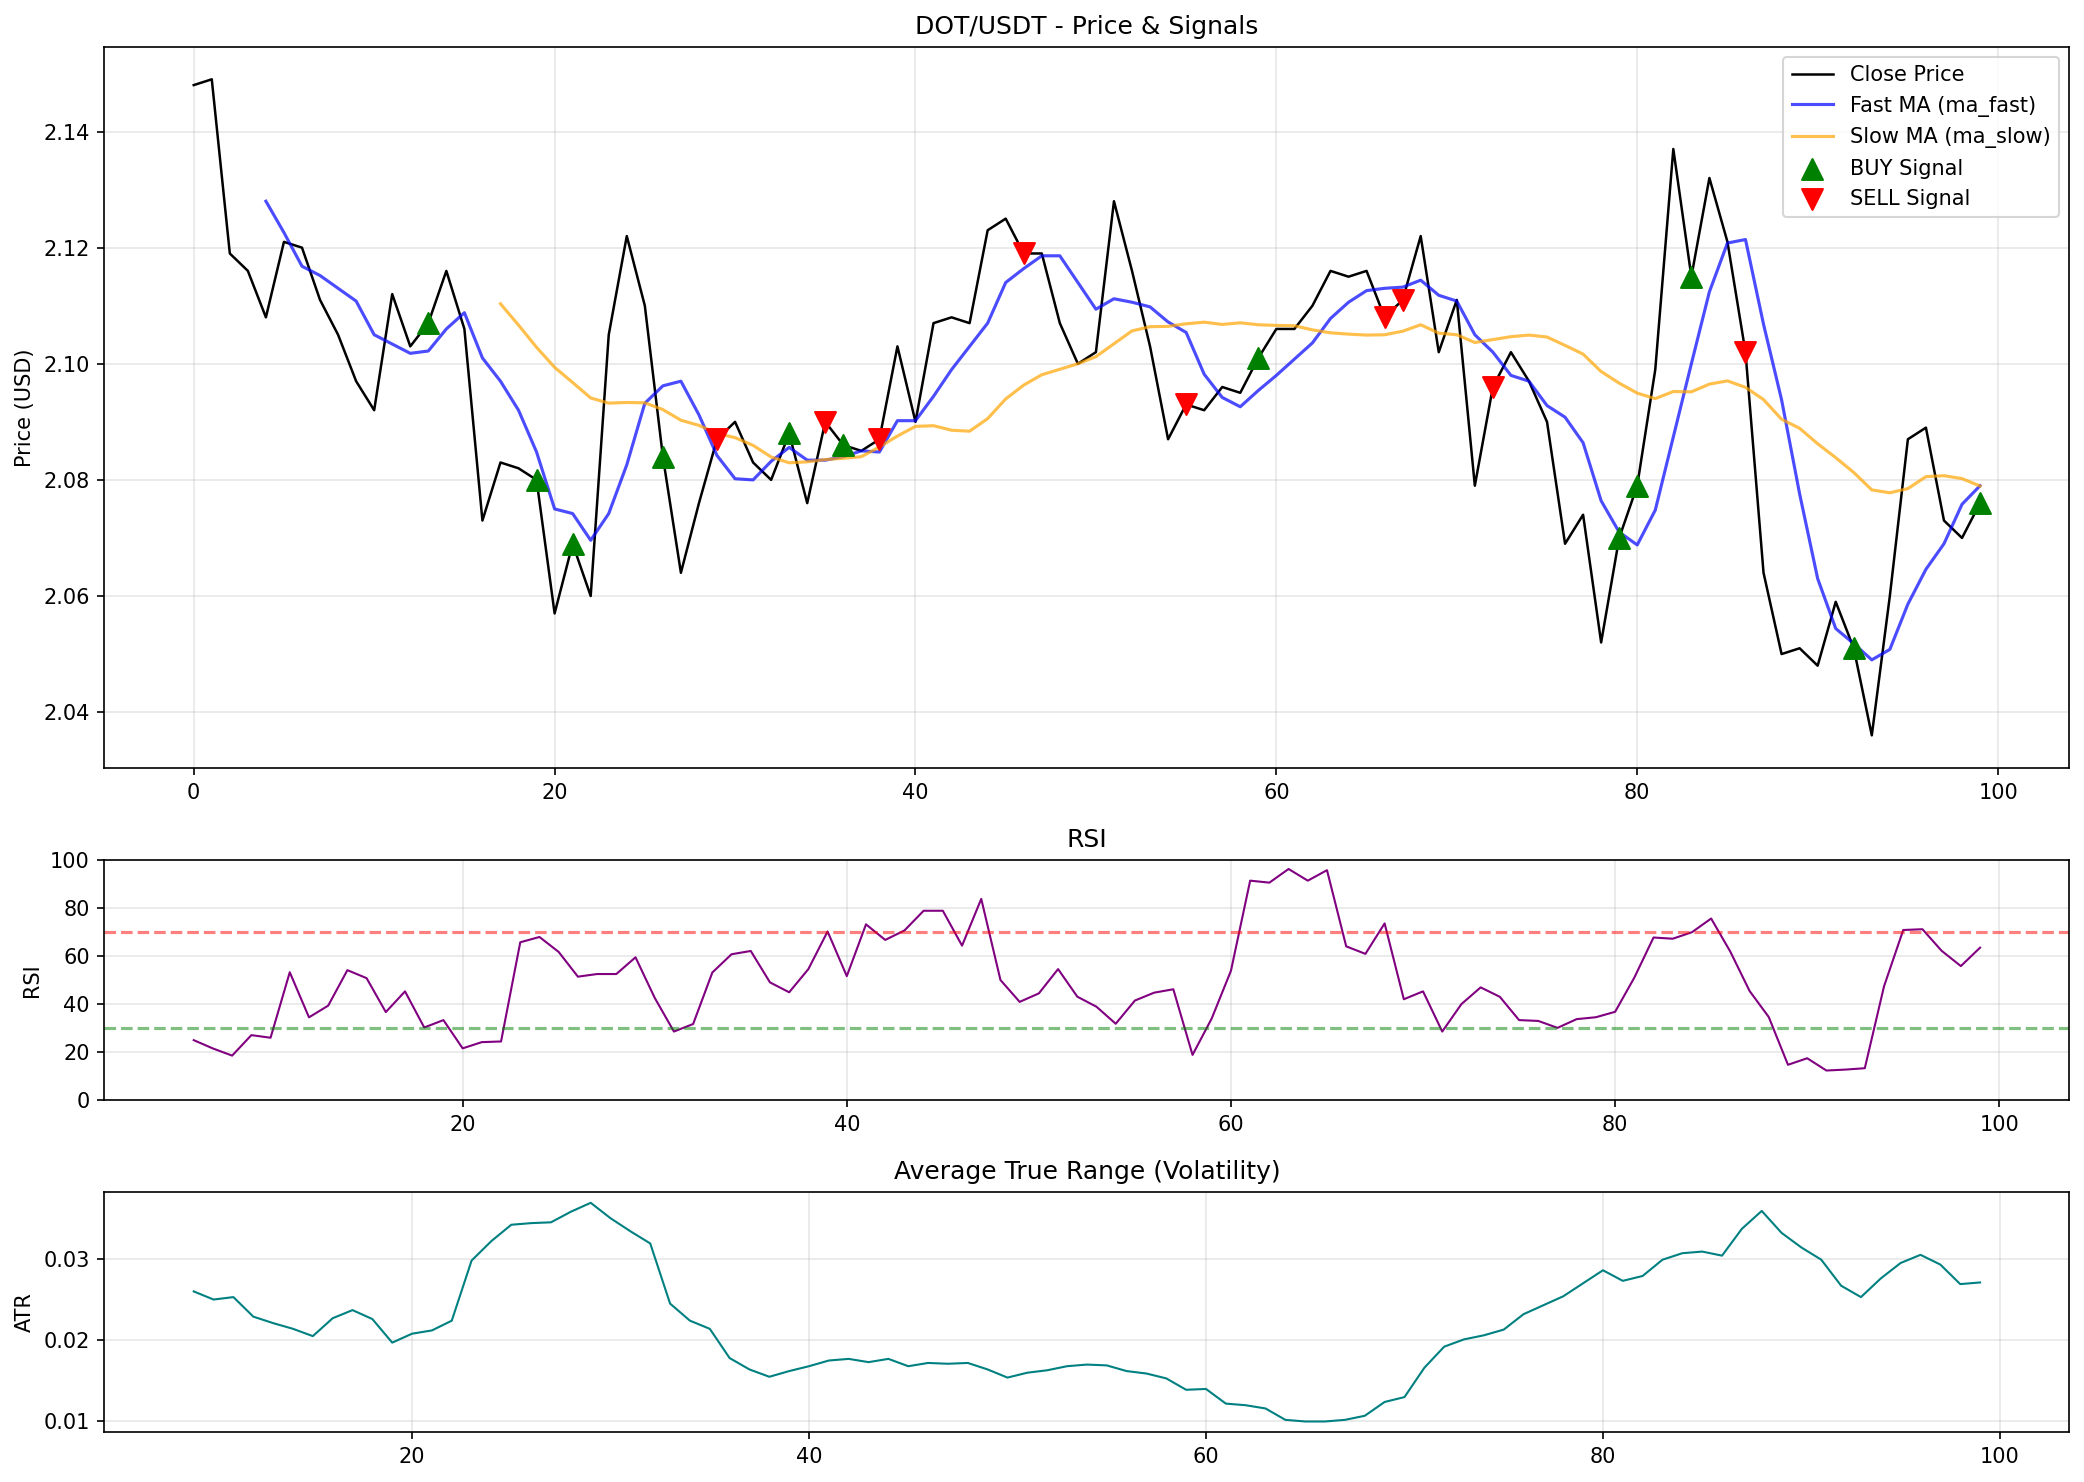
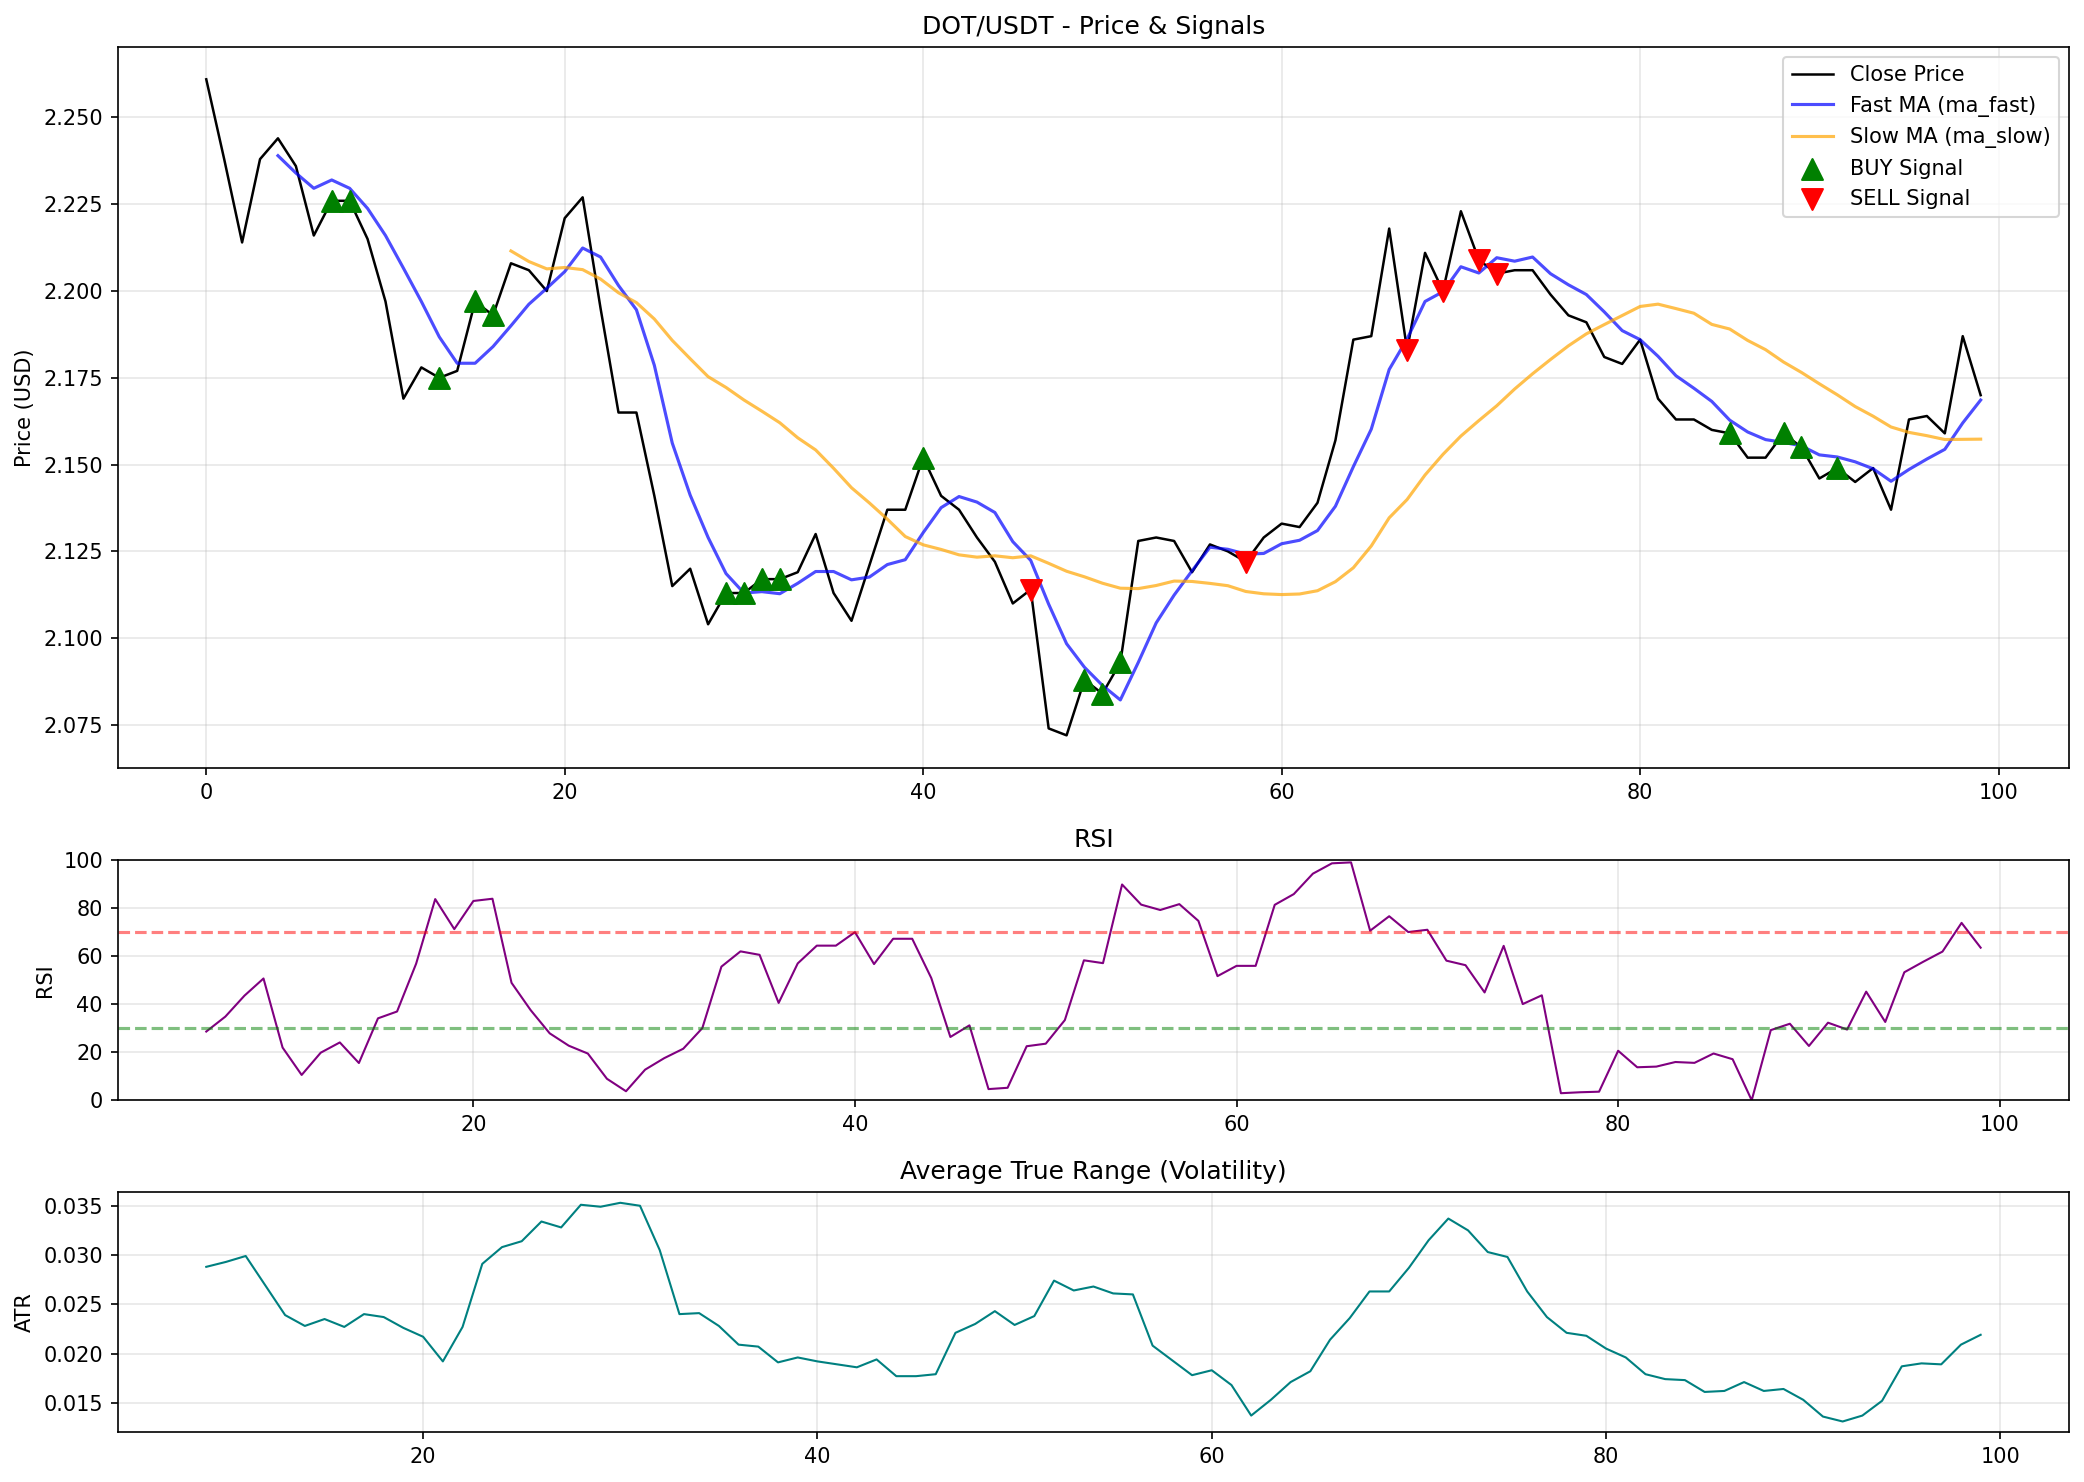
backtest added to main

diff --git a/main_enhanced.py b/main_enhanced.py
@@ -19,6 +19,8 @@ from alerts.email_alerts import send_email
 from alerts.discord_alerts import send_discord_message
 from data.last_signal_store import load_last_signals, save_last_signals
 from execution.enhanced_paper_trader import execute_paper_trade, summarize_paper_trades
+from run_backtest_simple import load_risk_config, BacktestPro
+
 
 # New: load active preset from Supabase (optional)
 try:
@@ -205,8 +207,61 @@ def check_all_positions_for_exits():
     except Exception as e:
         logging.error(f"Error in check_all_positions_for_exits: {e}")
 
+def run_startup_backtest_check():
+    """
+    Runs your professional BacktestPro class as a startup health check.
+    Uses the same risk config as the live bot.
+    """
+    print("\n" + "═" * 80)
+    print(" STARTUP BACKTEST HEALTH CHECK ".center(80))
+    print("═" * 80 + "\n")
+
+    try:
+        # Load the same risk config the live bot will use
+        risk_config = load_risk_config()
+
+        # Choose one or two major symbols for quick validation
+        symbol = "BTC/USDT"  # you can also do ["BTC/USDT", "ETH/USDT"]
+        timeframe = "1h"     # ← change to match your live strategy timeframe
+        limit = 3000         # enough for ~4-5 months on 1h
+
+        print(f"Fetching historical data for backtest ({symbol}, {timeframe})...")
+        df = fetch_ohlcv(symbol=symbol, timeframe=timeframe, limit=limit)
+
+        if df is None or df.empty:
+            print("→ Failed to fetch backtest data. Skipping health check.")
+            return None
+
+        print(f"Applying strategy to {len(df)} candles...")
+        df = enhanced_strategy(df)
+
+        print("Running backtest simulation...")
+        backtester = BacktestPro(initial_balance=10000, risk_config=risk_config)
+        backtester.run(df, symbol=symbol, strategy_name="Enhanced Strategy")
+
+        # Optional: basic safety gate
+        final_balance = backtester.balance
+        roi = (final_balance / 10000 - 1) * 100
+        if roi < -30:
+            msg = f"WARNING: Backtest shows heavy loss ({roi:.1f}%). Consider reviewing strategy."
+            print("\n" + msg + "\n")
+            logging.warning(msg)
+            # send_all_alerts(msg)  # ← uncomment if you want alert
+
+        print("\n→ Backtest completed. Proceeding to live/paper mode...\n")
+        return {"status": "ok", "final_balance": final_balance, "roi": roi}
+
+    except Exception as e:
+        logging.error(f"Startup backtest failed: {e}")
+        print(f"Backtest error: {e}")
+        print("→ Continuing to live mode anyway...\n")
+        return None
+
 
 def main(continuous: bool = False, interval: int = 300):
+    # Run backtest health check at every startup/restart
+    backtest_result = run_startup_backtest_check()
+
     run_count = 0
 
     # Prefer active preset from Supabase if available, fall back to local config

diff --git a/strategies/enhanced_signals.py b/strategies/enhanced_signals.py
@@ -51,18 +51,18 @@ def enhanced_strategy(df, config=None):
     """
     if config is None:
         config = {
-            "fast_ma": 5,              # Faster: was 10
-            "slow_ma": 18,             # Faster: was 30
-            "rsi_period": 7,
-            "rsi_oversold": 45,        # Relaxed: was 30
-            "rsi_overbought": 55,      # Relaxed: was 70
-            "atr_period": 10,
-            "atr_multiplier_sl": 1.0,
-            "atr_multiplier_tp": 1.5,
+            "fast_ma": 20,              # Faster: was 10
+            "slow_ma": 50,             # Faster: was 30
+            "rsi_period": 14,
+            "rsi_oversold": 30,        # Relaxed: was 30
+            "rsi_overbought": 70,      # Relaxed: was 70
+            "atr_period": 14,
+            "atr_multiplier_sl": 1.5,
+            "atr_multiplier_tp": 3.0,
             "atr_multiplier_trailing": 1.0,
-            "min_volume_ratio": 0.5,   # Relaxed: was 1.0
-            "use_volume_filter": False, # Disabled for more signals
-            "min_signal_quality": 20   # Relaxed: was 60
+            "min_volume_ratio": 1.5,   # Relaxed: was 1.0
+            "use_volume_filter": True, # Disabled for more signals
+            "min_signal_quality": 50   # Relaxed: was 60
         }
     
     df = df.copy()
